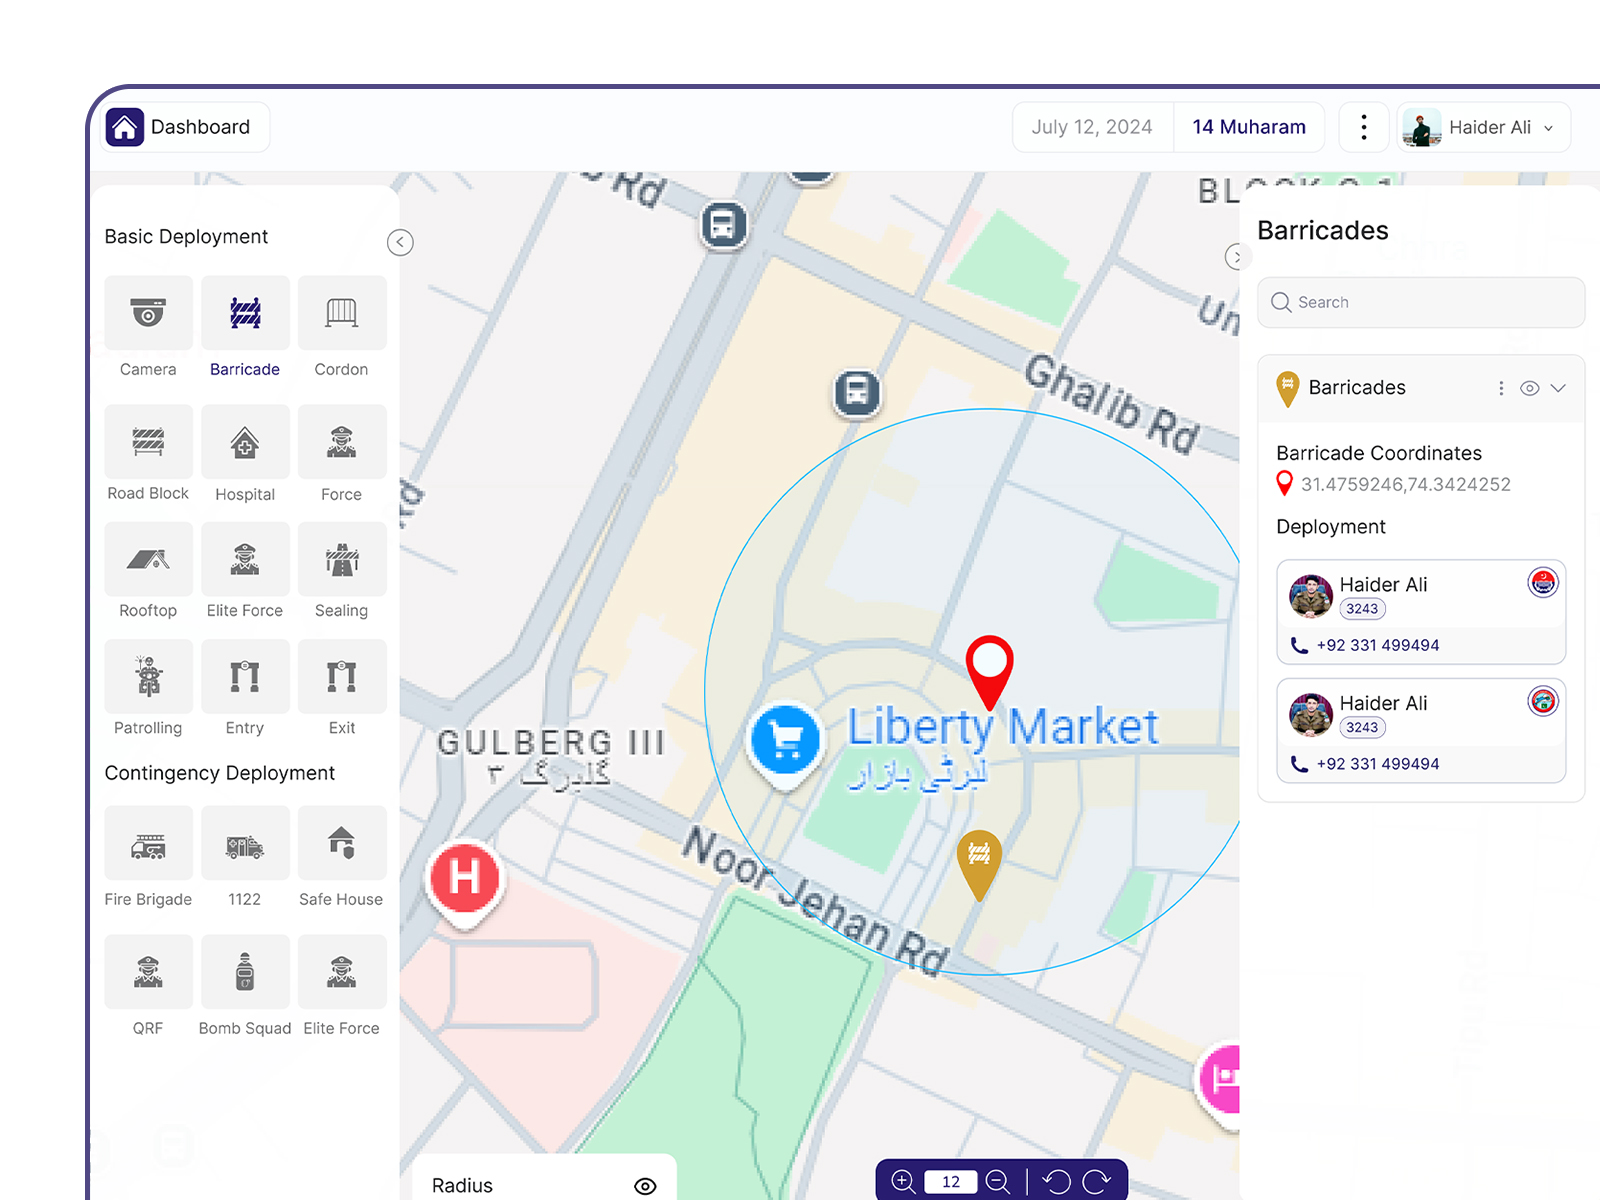
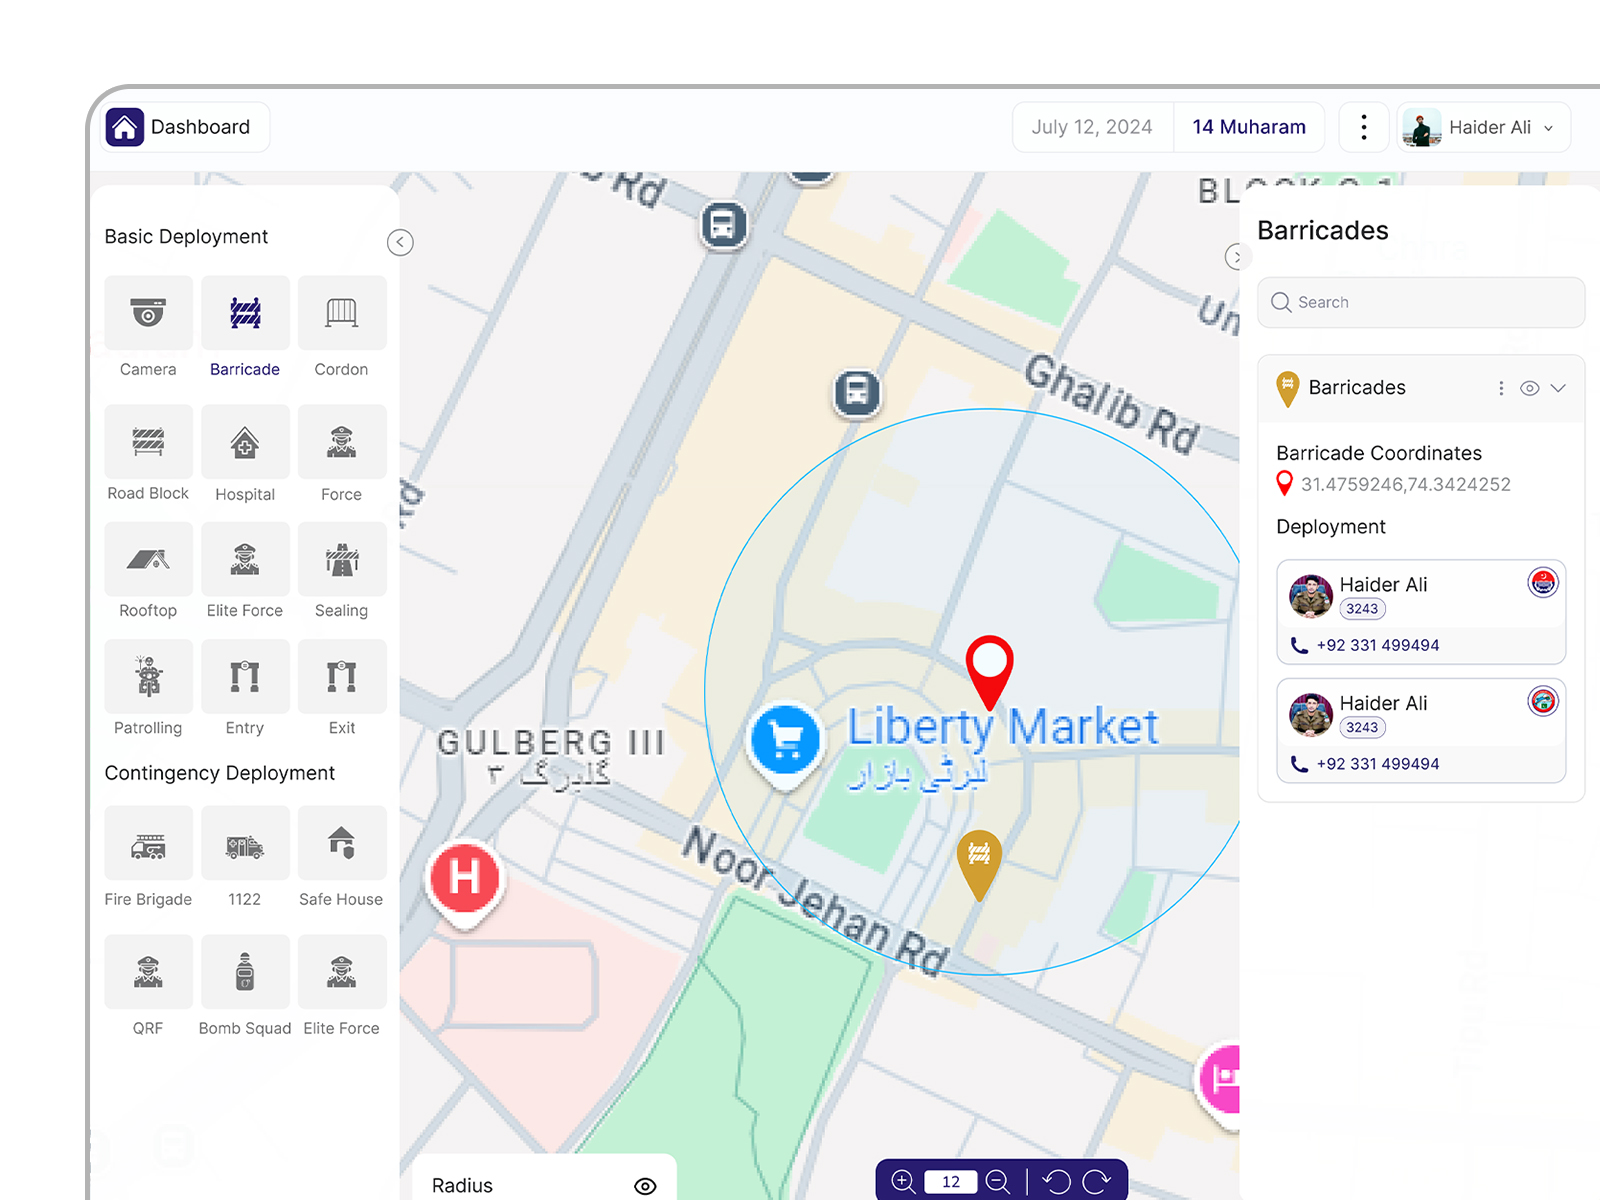
grid changed from 2 to 3

Changed region(s): [[0.0625, 0.0617, 1.0, 0.0925], [0.0312, 0.0925, 0.0625, 0.1233]]

diff --git a/app/v2/page.js b/app/v2/page.js
@@ -54,7 +54,7 @@ export default function Home() {
         {/* WORK — 2-col, 550px, single color, cutout    */}
         {/* ============================================ */}
         <section id="work" className="wrapper pt-12 pb-32">
-          <div className="project-grid">
+          <div className="project-grid-3">
             {projects.map((p, i) => {
               // v2 override: prefer v2Image when defined; fall back to v1 image.
               // ESS has both null — ProjectCard will render its empty placeholder, matching v1.

diff --git a/app/globals.css b/app/globals.css
@@ -109,3 +109,20 @@ body {
     grid-template-columns: 550px 550px;
   }
 }
+
+/* v2-only: 3-column variant. 1-col mobile → 2-col tablet → 3-col desktop. */
+.project-grid-3 {
+  display: grid;
+  grid-template-columns: 1fr;
+  gap: 45px;
+}
+@media (min-width: 768px) and (max-width: 1199px) {
+  .project-grid-3 {
+    grid-template-columns: 1fr 1fr;
+  }
+}
+@media (min-width: 1200px) {
+  .project-grid-3 {
+    grid-template-columns: 1fr 1fr 1fr;
+  }
+}
